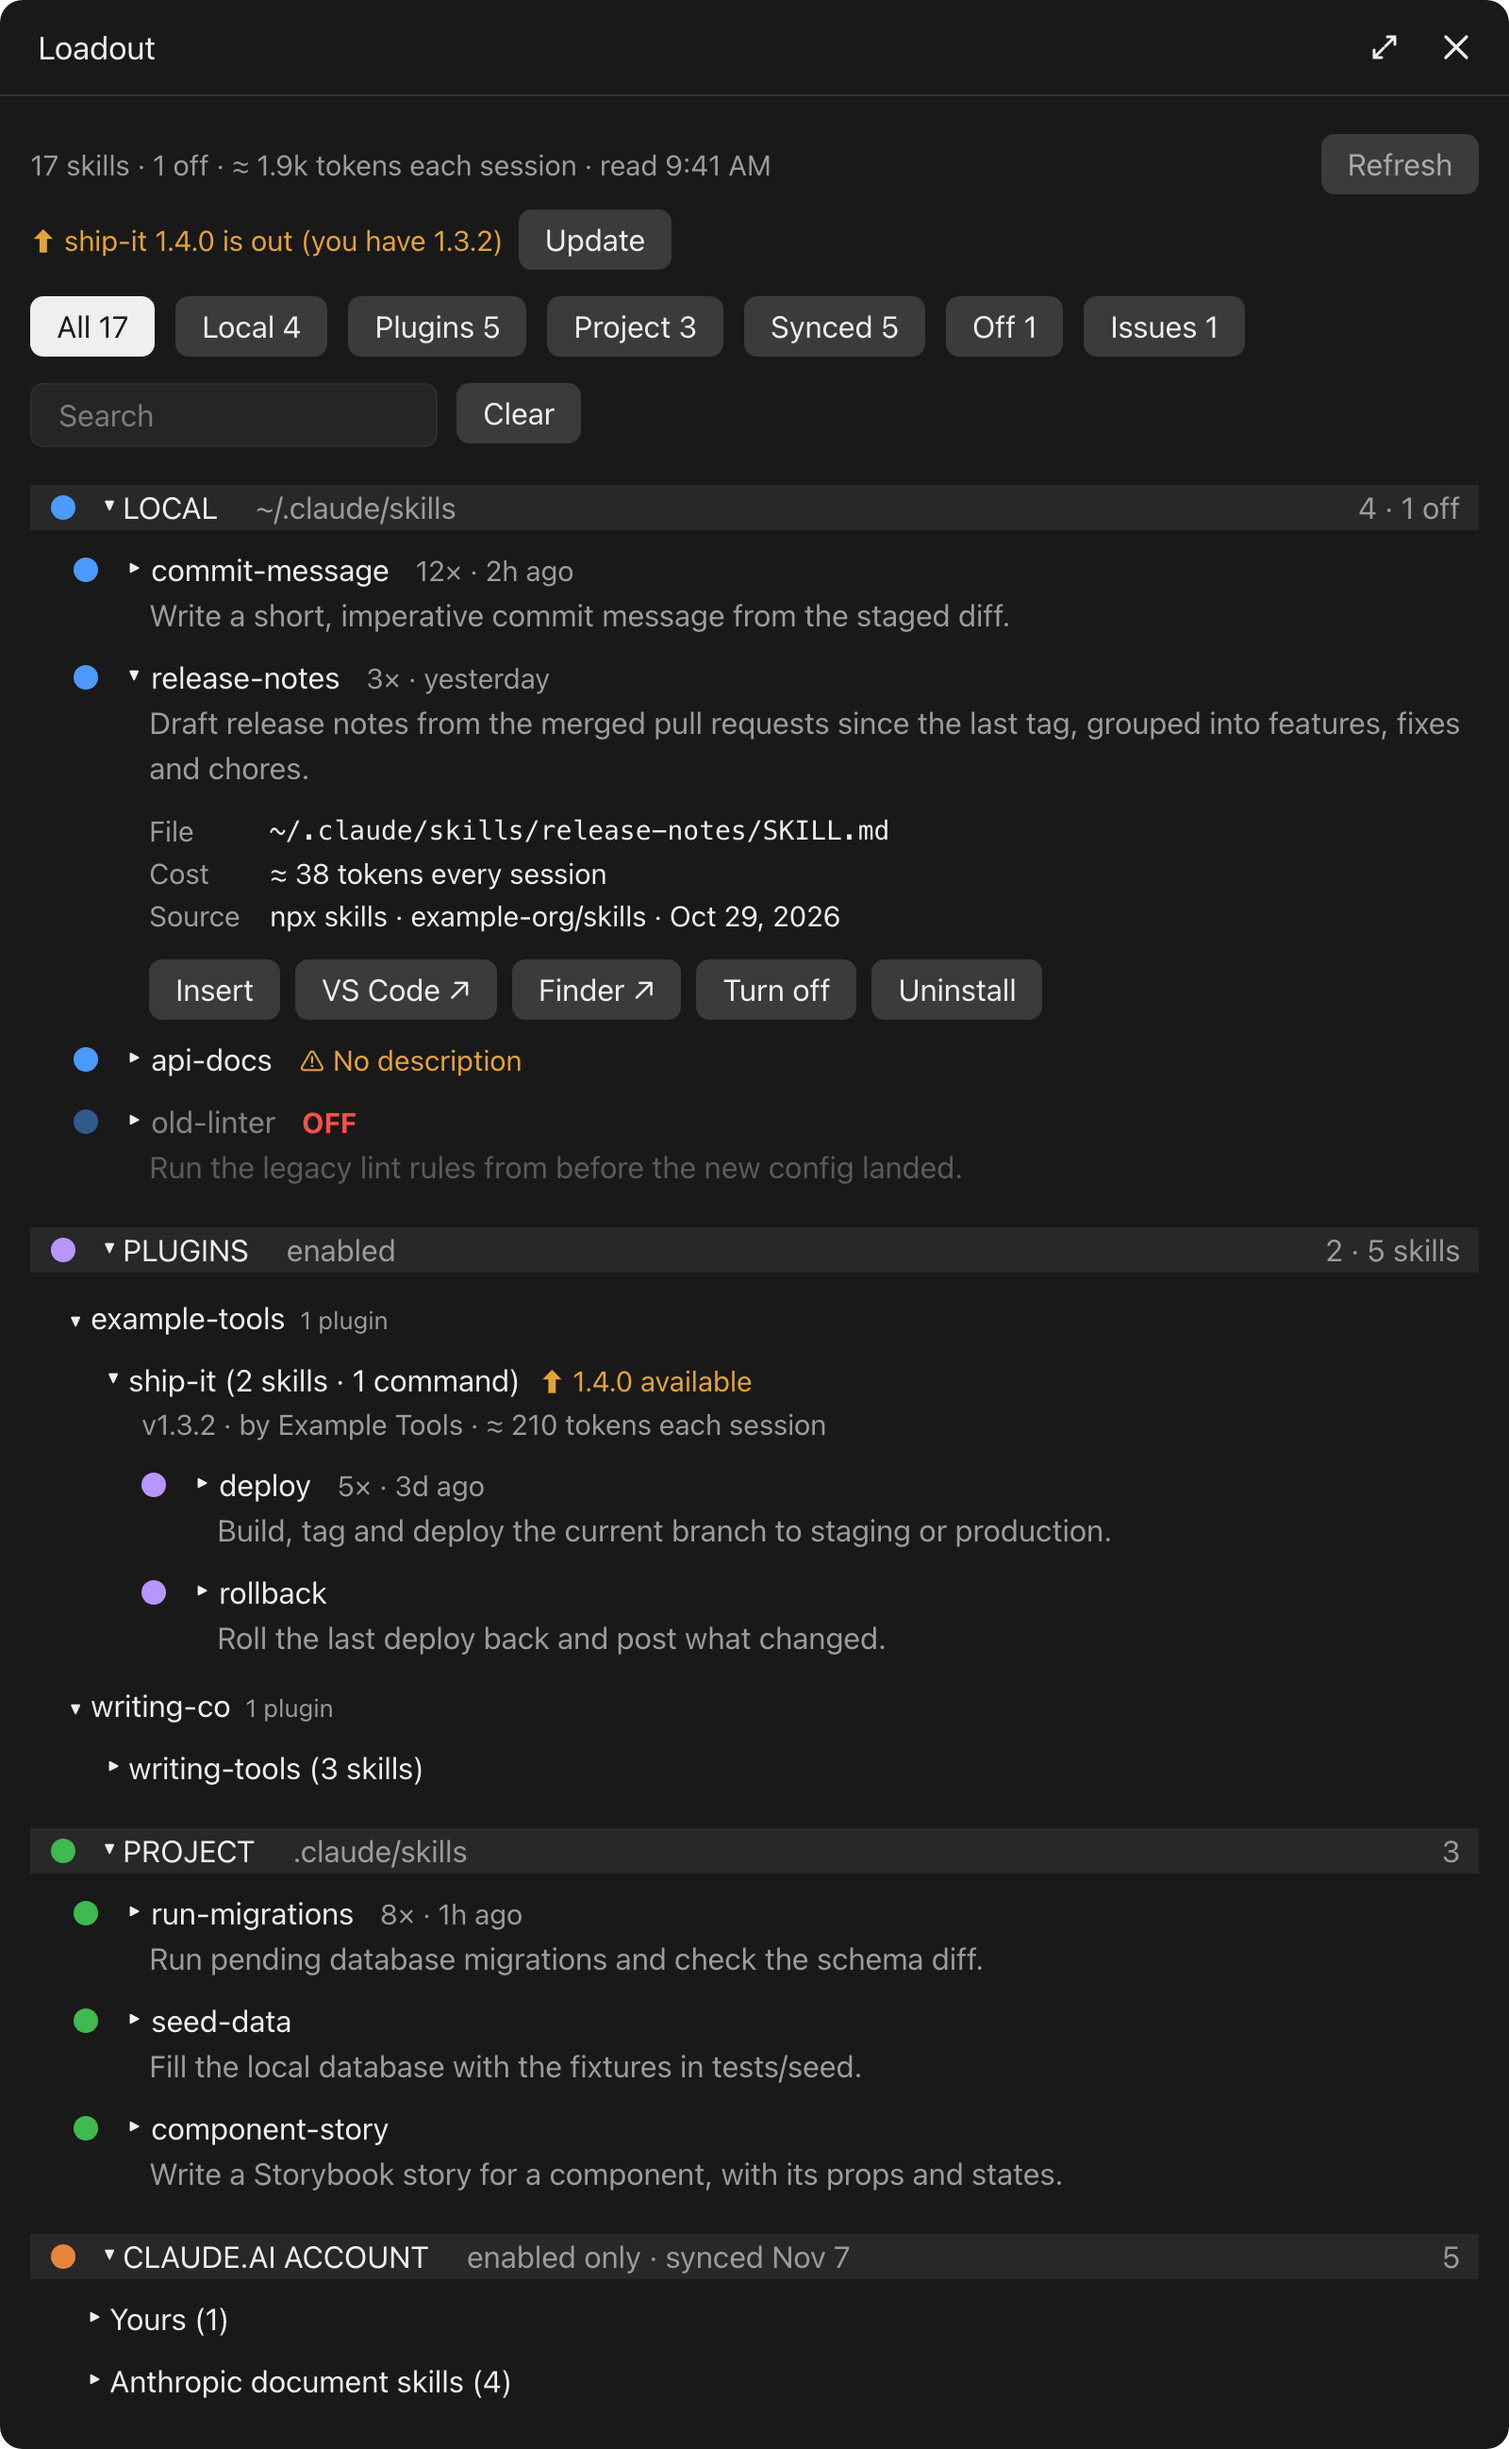
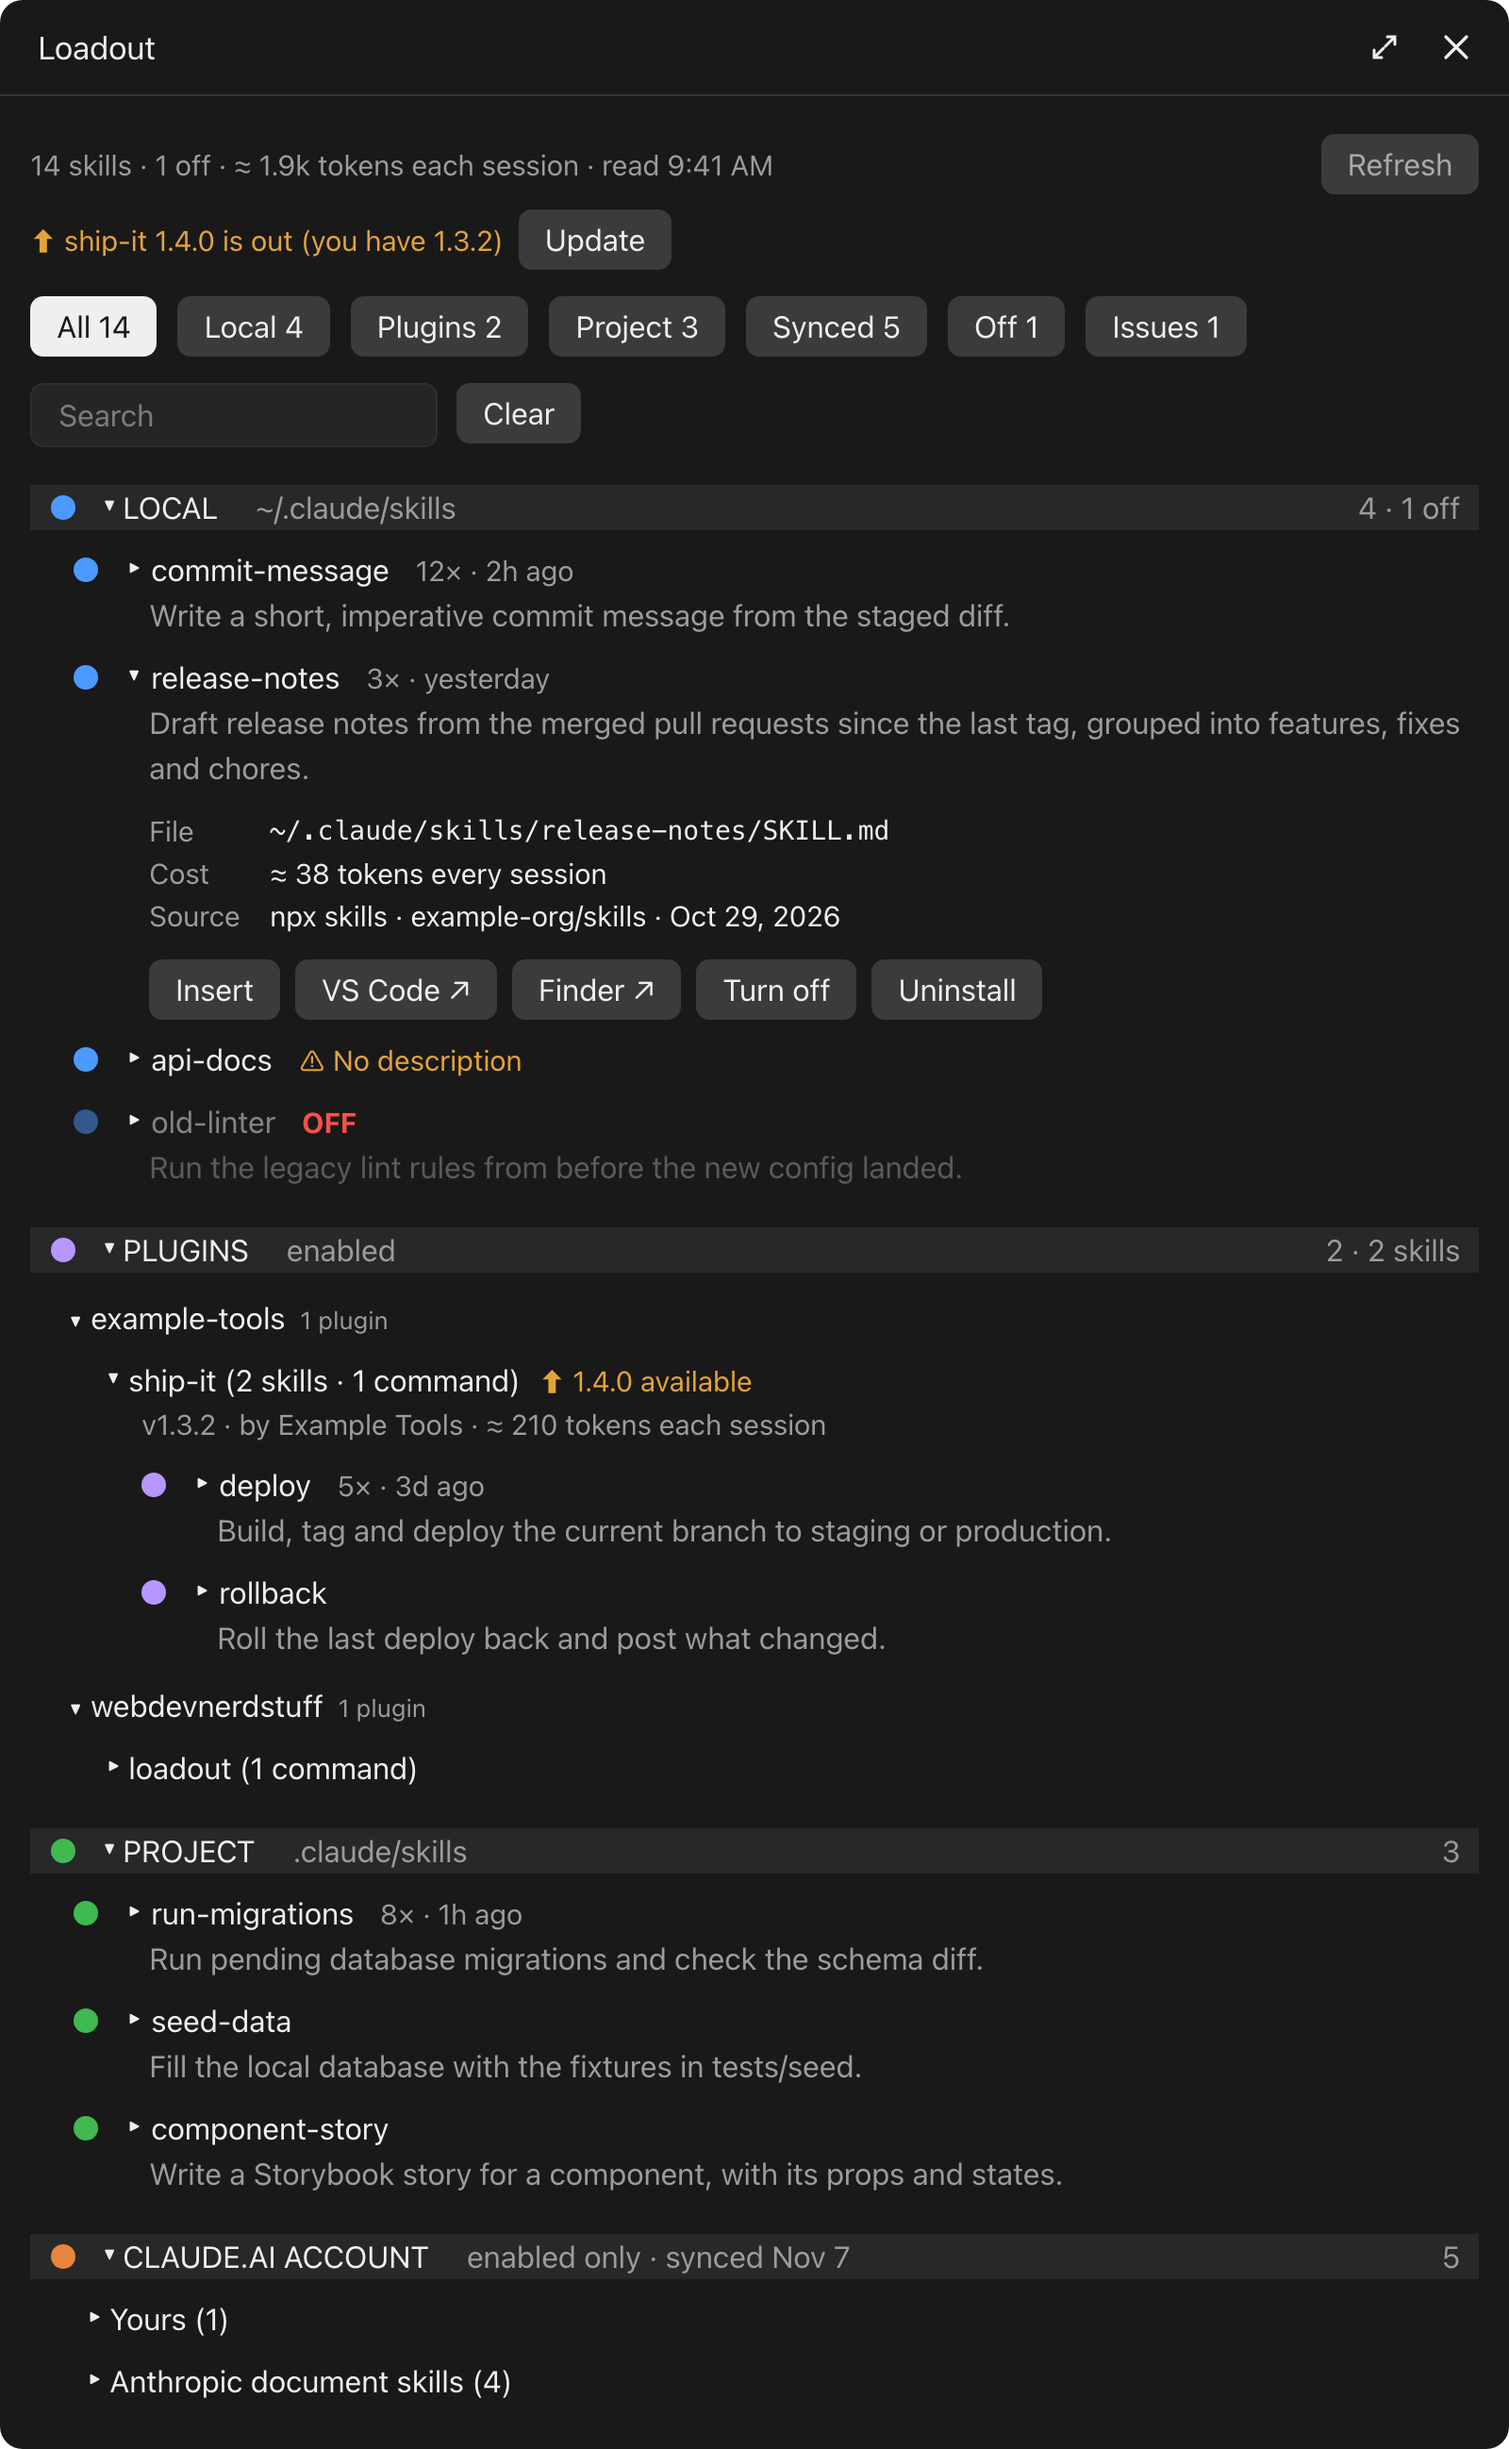
Say the pane is on its way when /loadout runs before the app attaches

diff --git a/docs/demo/pane.html b/docs/demo/pane.html
@@ -296,7 +296,7 @@
 			<div class="body">
 				<div class="row between">
 					<span class="dim small"
-						>17 skills · 1 off · ≈ 1.9k tokens each session · read
+						>14 skills · 1 off · ≈ 1.9k tokens each session · read
 						9:41 AM</span
 					>
 					<span class="btn quiet">Refresh</span>
@@ -309,9 +309,9 @@
 				</div>
 
 				<div class="chips">
-					<span class="btn chosen">All 17</span>
+					<span class="btn chosen">All 14</span>
 					<span class="btn">Local 4</span>
-					<span class="btn">Plugins 5</span>
+					<span class="btn">Plugins 2</span>
 					<span class="btn">Project 3</span>
 					<span class="btn">Synced 5</span>
 					<span class="btn">Off 1</span>
@@ -428,7 +428,7 @@
 						<span class="tri">▼</span>PLUGINS
 						<span class="path dim">enabled</span>
 					</span>
-					<span class="dim">2 · 5 skills</span>
+					<span class="dim">2 · 2 skills</span>
 				</div>
 				<div class="source">
 					<span class="tri">▼</span>example-tools<span class="count"
@@ -479,14 +479,14 @@
 					</div>
 				</div>
 				<div class="source">
-					<span class="tri">▼</span>writing-co<span class="count"
+					<span class="tri">▼</span>webdevnerdstuff<span class="count"
 						>1 plugin</span
 					>
 				</div>
 				<div class="group">
 					<div class="fold">
 						<div class="row">
-							<span class="tri">▶</span>writing-tools (3 skills)
+							<span class="tri">▶</span>loadout (1 command)
 						</div>
 					</div>
 				</div>

diff --git a/tests/pane.test.tsx b/tests/pane.test.tsx
@@ -1572,7 +1572,7 @@ test('/loadout opens the pane with the keyboard, so it can be used at once', asy
 
 test('/loadout says why when the pane could not be placed', async ($, on) => {
 	const state = engine(on);
-	state.notPlaced = 'no-surface';
+	state.notPlaced = 'narrow: 110 columns needed, 80 now';
 	await $.session.start({
 		cwd: '/project',
 		surface: 'terminal',
@@ -1580,7 +1580,25 @@ test('/loadout says why when the pane could not be placed', async ($, on) => {
 	});
 	const { text } = await $.command.run({ command: 'loadout' });
 
-	expect(text).toMatch(/no-surface/);
+	expect(text).toBe(
+		'Loadout could not be shown: narrow: 110 columns needed, 80 now',
+	);
+});
+
+test('/loadout before the app attaches says the pane is on its way, not that it failed', async ($, on) => {
+	const state = engine(on);
+	state.notPlaced = 'no-surface: no surface is attached';
+	await $.session.start({
+		cwd: '/project',
+		surface: 'desktop',
+		isInteractive: true,
+	});
+	const { text } = await $.command.run({ command: 'loadout' });
+
+	expect(state.opens).toEqual([
+		expect.objectContaining({ id: 'loadout', focus: true }),
+	]);
+	expect(text).toBe('Loadout opens as soon as the app is ready.');
 });
 
 test('the focused pane starts its ring on the search box, so typing searches at once', async ($, on) => {

diff --git a/hooks/register.tsx b/hooks/register.tsx
@@ -3037,6 +3037,11 @@ export const register: Register = (on) => {
 		// Focus hands the pane the keyboard; without it the keys stay in the
 		// prompt and nothing in the pane answers until ctrl+x tab or a click.
 		const opened = await $.ui.open({ id: PANE, title: TITLE, focus: true });
+		// A new desktop session attaches its surface only when it first draws,
+		// so an open just before that waits and is placed once it attaches.
+		if (!opened.isPlaced && opened.reason.startsWith('no-surface')) {
+			return { text: 'Loadout opens as soon as the app is ready.' };
+		}
 		if (!opened.isPlaced) {
 			return { text: `Loadout could not be shown: ${opened.reason}` };
 		}
